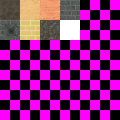
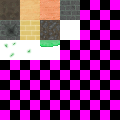
added overlayrendering to the map

Changed region(s): [[0.0, 0.325, 0.5, 0.5]]

diff --git a/mapKnight_Android/_CGL/CGLMap.cs b/mapKnight_Android/_CGL/CGLMap.cs
@@ -21,7 +21,7 @@ namespace mapKnight_Android.CGL
 		FloatBuffer iVertexBuffer;
 		IntBuffer iIndexBuffer;
 		FloatBuffer iTextureBuffer;
-		private float[] iLastTextureCoors;
+		// private float[] iLastTextureCoors;
 
 		FloatBuffer fboVertexBuffer;
 		ShortBuffer fboIndexBuffer;
@@ -133,7 +133,7 @@ namespace mapKnight_Android.CGL
 			VertexCoords = new float[iTileCount * 8 * 2];
 			VertexIndices = new int[iTileCount * 6 * 2];
 
-			for (int i = 0; i < 1; i++) { // tile and overlay vertex
+			for (int i = 0; i < 2; i++) { // tile and overlay vertex
 				for (int y = 0; y < mapDrawHeight; y++) {
 					for (int x = 0; x < mapDrawWidth; x++) {
 
@@ -172,6 +172,12 @@ namespace mapKnight_Android.CGL
 
 		private void initTextureCoords ()
 		{
+			//init Texture Buffer
+			ByteBuffer bytebuffer = ByteBuffer.AllocateDirect (mapDrawWidth * mapDrawHeight * 8 * 2 * sizeof(float));
+			bytebuffer.Order (ByteOrder.NativeOrder ());
+			iTextureBuffer = bytebuffer.AsFloatBuffer ();
+			iTextureBuffer.Position (0);
+
 			LineTileTextureCoords = new Dictionary<int, float[]> ();
 			LineOvrlTextureCoords = new Dictionary<int, float[]> ();
 
@@ -193,48 +199,37 @@ namespace mapKnight_Android.CGL
 
 		private bool updateTextureBuffer (UpdateType updateType)
 		{
-			float[] texturecoords = new float[mapDrawWidth * mapDrawHeight * 8];
-
-			if (iTextureBuffer == null || iTextureBuffer.Limit () <= texturecoords.Length) {
-				
-			}
-
-
 			switch (updateType) {
 			case UpdateType.RemoveBottom:	// Just add a new line at the top
-				float[] ttopline = AO.Cut (LineTileTextureCoords [currentTileY - mapDrawHeight / 2], (currentTileX - mapDrawWidth / 2) * 8, mapDrawWidth * 8);
-				float[] tbottomrest = AO.Cut (iLastTextureCoors, 0, mapDrawWidth * (mapDrawHeight - 1) * 8);
+				float[] copiedpart = new float[mapDrawWidth * (mapDrawHeight - 1) * 8];
+				iTextureBuffer.Position (0);
+				iTextureBuffer.Get (copiedpart, 0, mapDrawWidth * (mapDrawHeight - 1) * 8);
 
-				Array.Copy (topline, texturecoords, topline.Length);
-				Array.Copy (bottomrest, 0, texturecoords, topline.Length, bottomrest.Length);
+				iTextureBuffer.Position (0);
+				iTextureBuffer.Put (AO.Cut (LineTileTextureCoords [currentTileY - mapDrawHeight / 2], (currentTileX - mapDrawWidth / 2) * 8, mapDrawWidth * 8));
+				iTextureBuffer.Put (copiedpart);
 				break;
 			case UpdateType.RemoveTop:	// Just add a new line at the bottom
-				float[] bottomline = AO.Cut (LineTileTextureCoords [currentTileY + mapDrawHeight / 2], (currentTileX - mapDrawWidth / 2) * 8, mapDrawWidth * 8);
-				float[] toprest = AO.Cut (iLastTextureCoors, mapDrawWidth * 8, mapDrawWidth * (mapDrawHeight - 1) * 8);
-				Array.Copy (toprest, texturecoords, toprest.Length);
-				Array.Copy (bottomline, 0, texturecoords, toprest.Length, bottomline.Length);
+				copiedpart = new float[mapDrawWidth * (mapDrawHeight - 1) * 8];
+				iTextureBuffer.Position (mapDrawWidth * 8);
+				iTextureBuffer.Get (copiedpart, 0, mapDrawWidth * (mapDrawHeight - 1) * 8);
+
+				iTextureBuffer.Position (0);
+				iTextureBuffer.Put (copiedpart);
+				iTextureBuffer.Put (AO.Cut (LineTileTextureCoords [currentTileY + mapDrawHeight / 2], (currentTileX - mapDrawWidth / 2) * 8, mapDrawWidth * 8));
 				break;
 			case UpdateType.Complete:
+				iTextureBuffer.Position (0);
+				for (int y = 0; y < mapDrawHeight; y++) { // tiles
+					iTextureBuffer.Put (AO.Cut (LineTileTextureCoords [currentTileY - mapDrawHeight / 2 + y], (currentTileX - mapDrawWidth / 2) * 8, mapDrawWidth * 8));
+				}
+
 				for (int y = 0; y < mapDrawHeight; y++) {
-					Array.Copy (AO.Cut (LineTileTextureCoords [currentTileY - mapDrawHeight / 2 + y], (currentTileX - mapDrawWidth / 2) * 8, mapDrawWidth * 8), 0, texturecoords, y * mapDrawWidth * 8, mapDrawWidth * 8);
+					iTextureBuffer.Put (AO.Cut (LineOvrlTextureCoords [currentTileY - mapDrawHeight / 2 + y], (currentTileX - mapDrawWidth / 2) * 8, mapDrawWidth * 8));
 				}
 				break;
 			}
-
-			if (iTextureBuffer == null || iTextureBuffer.Limit () <= texturecoords.Length) {
-				ByteBuffer bytebuffer = ByteBuffer.AllocateDirect (texturecoords.Length * sizeof(float));
-				bytebuffer.Order (ByteOrder.NativeOrder ());
-				TileTexBuffer = bytebuffer.AsFloatBuffer ();
-				TileTexBuffer.Put (texturecoords);
-				TileTexBuffer.Position (0);
-			
-				iTextureBuffer = TileTexBuffer;
-			} else {
-				iTextureBuffer.Put (texturecoords, 0, texturecoords.Length);
-				iTextureBuffer.Position (0);
-			}
-
-			iLastTextureCoors = texturecoords;
+			iTextureBuffer.Position (0);
 
 			renderFrameBuffer ();
 			return true;
@@ -266,7 +261,7 @@ namespace mapKnight_Android.CGL
 			GL.GlVertexAttribPointer (mTextureCoordinateHandle, 2, GL.GlFloat, false, 0, iTextureBuffer);
 			GL.GlEnableVertexAttribArray (mTextureCoordinateHandle);
 
-			GL.GlDrawElements (GL.GlTriangles, iIndexBuffer.Limit () / 2, GL.GlUnsignedInt, iIndexBuffer);
+			GL.GlDrawElements (GL.GlTriangles, VertexIndices.Length, GL.GlUnsignedInt, iIndexBuffer);
 			GL.GlDisableVertexAttribArray (PositionHandle);
 			GL.GlDisableVertexAttribArray (mTextureCoordinateHandle);
 

diff --git a/mapKnight_Android/_Global/LoadTexCoordManager.cs b/mapKnight_Android/_Global/LoadTexCoordManager.cs
@@ -5,7 +5,7 @@ namespace mapKnight_Android
 {
 	public static partial class Content
 	{
-		private static TextureCoordinateManager<short> LoadTileManager (List<XMLElemental> Tiles)
+		private static TextureCoordinateManager<short> LoadManager (List<XMLElemental> Tiles)
 		{
 			TextureCoordinateManager<short> LoadedInstance = new TextureCoordinateManager<short> ();
 
@@ -15,32 +15,10 @@ namespace mapKnight_Android
 				float y = 1f - (float)(Content.ImageHeight - (short)Convert.ToInt32 (entry.Attributes ["y"])) / ImageHeight;
 
 				float[] parsedCoordinates = new float[] { 
-					x, y + TextureVertexHeight,
-					x, y,
 					x + TextureVertexWidth, y,
-					x + TextureVertexWidth, y + TextureVertexHeight
-				};
-
-				LoadedInstance [id] = parsedCoordinates;
-			}
-
-			return LoadedInstance;
-		}
-
-		private static TextureCoordinateManager<short> LoadOverlayManager (List<XMLElemental> Overlays)
-		{
-			TextureCoordinateManager<short> LoadedInstance = new TextureCoordinateManager<short> ();
-
-			foreach (XMLElemental entry in Overlays) {
-				short id = (short)Convert.ToInt32 (entry.Attributes ["id"]);
-				float x = (float)Convert.ToInt32 (entry.Attributes ["x"]) / ImageWidth;
-				float y = (float)(Content.ImageHeight - (short)Convert.ToInt32 (entry.Attributes ["y"])) / ImageHeight;
-
-				float[] parsedCoordinates = new float[] { 
+					x + TextureVertexWidth, y + TextureVertexHeight,
 					x, y + TextureVertexHeight,
-					x, y,
-					x + TextureVertexWidth, y,
-					x + TextureVertexWidth, y + TextureVertexHeight
+					x, y
 				};
 
 				LoadedInstance [id] = parsedCoordinates;

diff --git a/mapKnight_Android/_Global/Initialize.cs b/mapKnight_Android/_Global/Initialize.cs
@@ -37,8 +37,8 @@ namespace mapKnight_Android
 			TextureVertexWidth = TileSize / (float)ImageWidth;
 			TextureVertexHeight = TileSize / (float)ImageHeight;
 
-			TileTexCoordManager = LoadTileManager (configfile ["tiles"].GetAll ());
-			OverlayTexCoordManager = LoadOverlayManager (configfile ["overlay"].GetAll ());
+			TileTexCoordManager = LoadManager (configfile ["tiles"].GetAll ());
+			OverlayTexCoordManager = LoadManager (configfile ["overlay"].GetAll ());
 
 			ScreenSize = new Size (GameContext.Resources.DisplayMetrics.WidthPixels, GameContext.Resources.DisplayMetrics.HeightPixels);
 			ScreenRatio = (float)ScreenSize.Width / (float)ScreenSize.Height;
